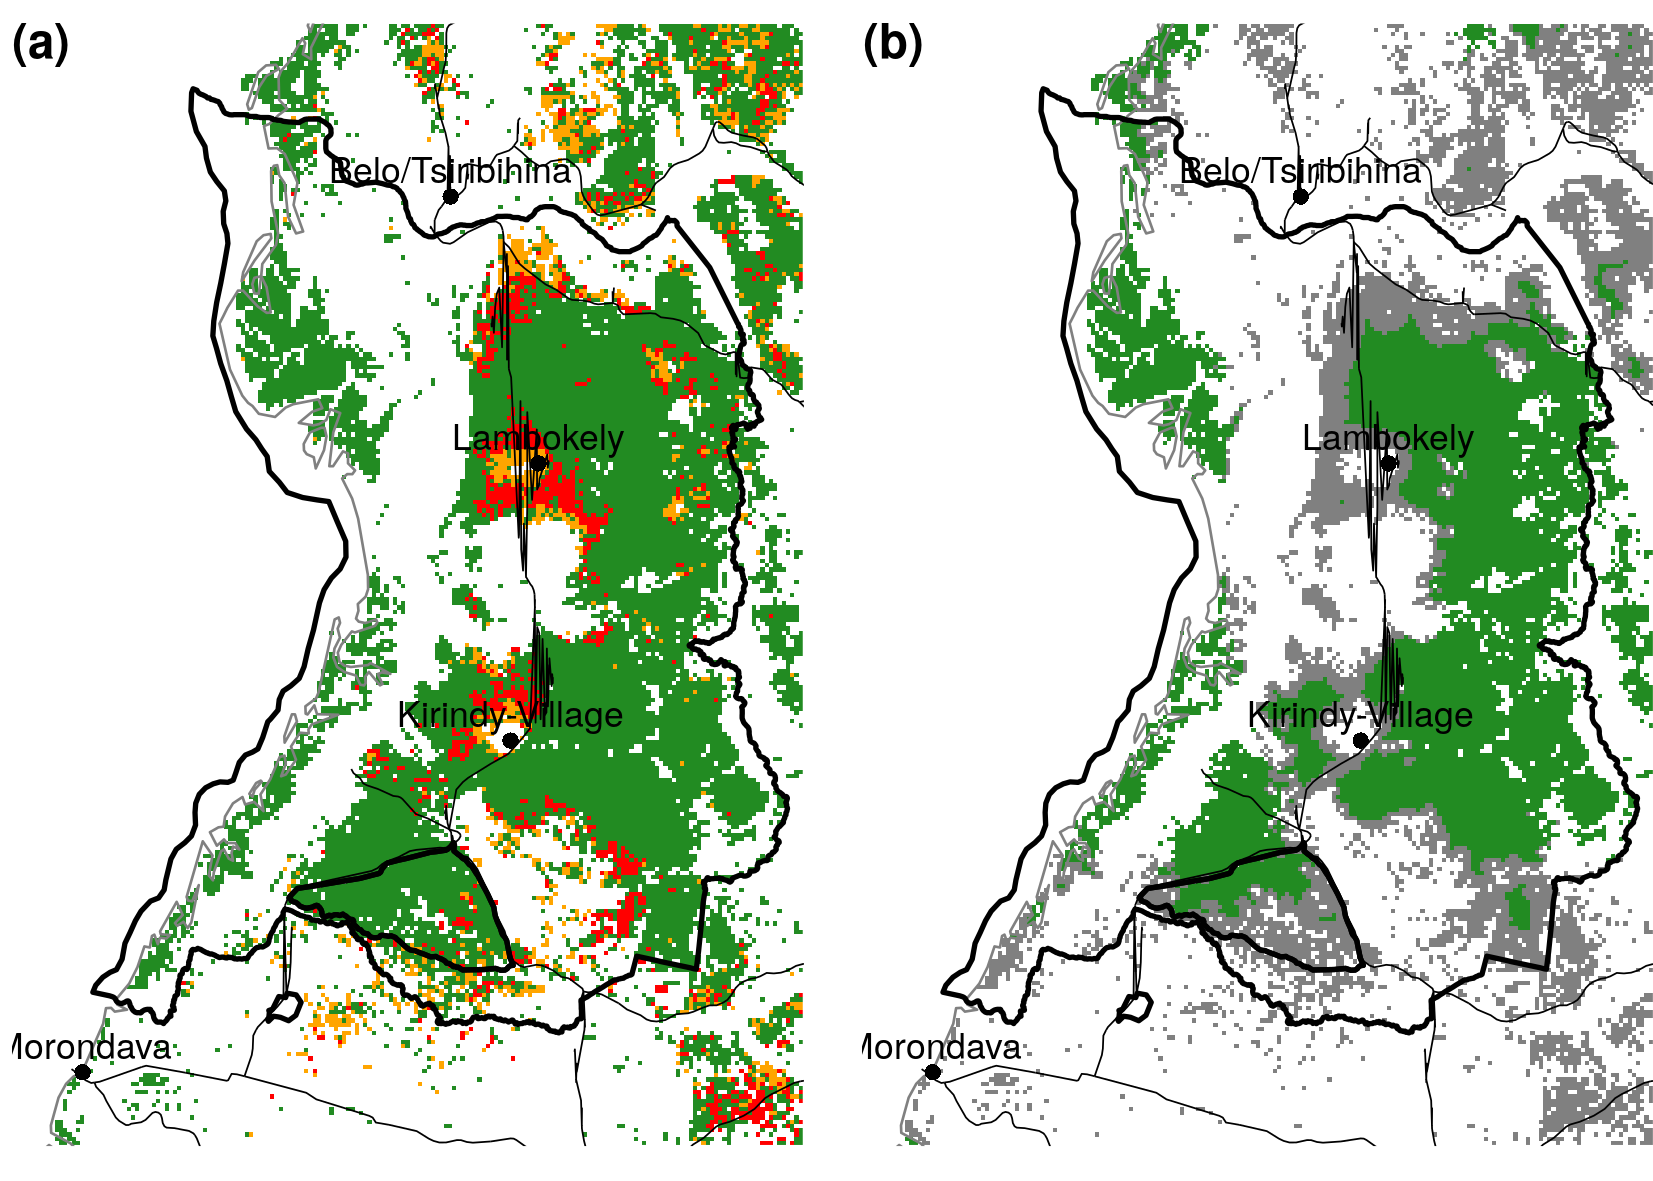
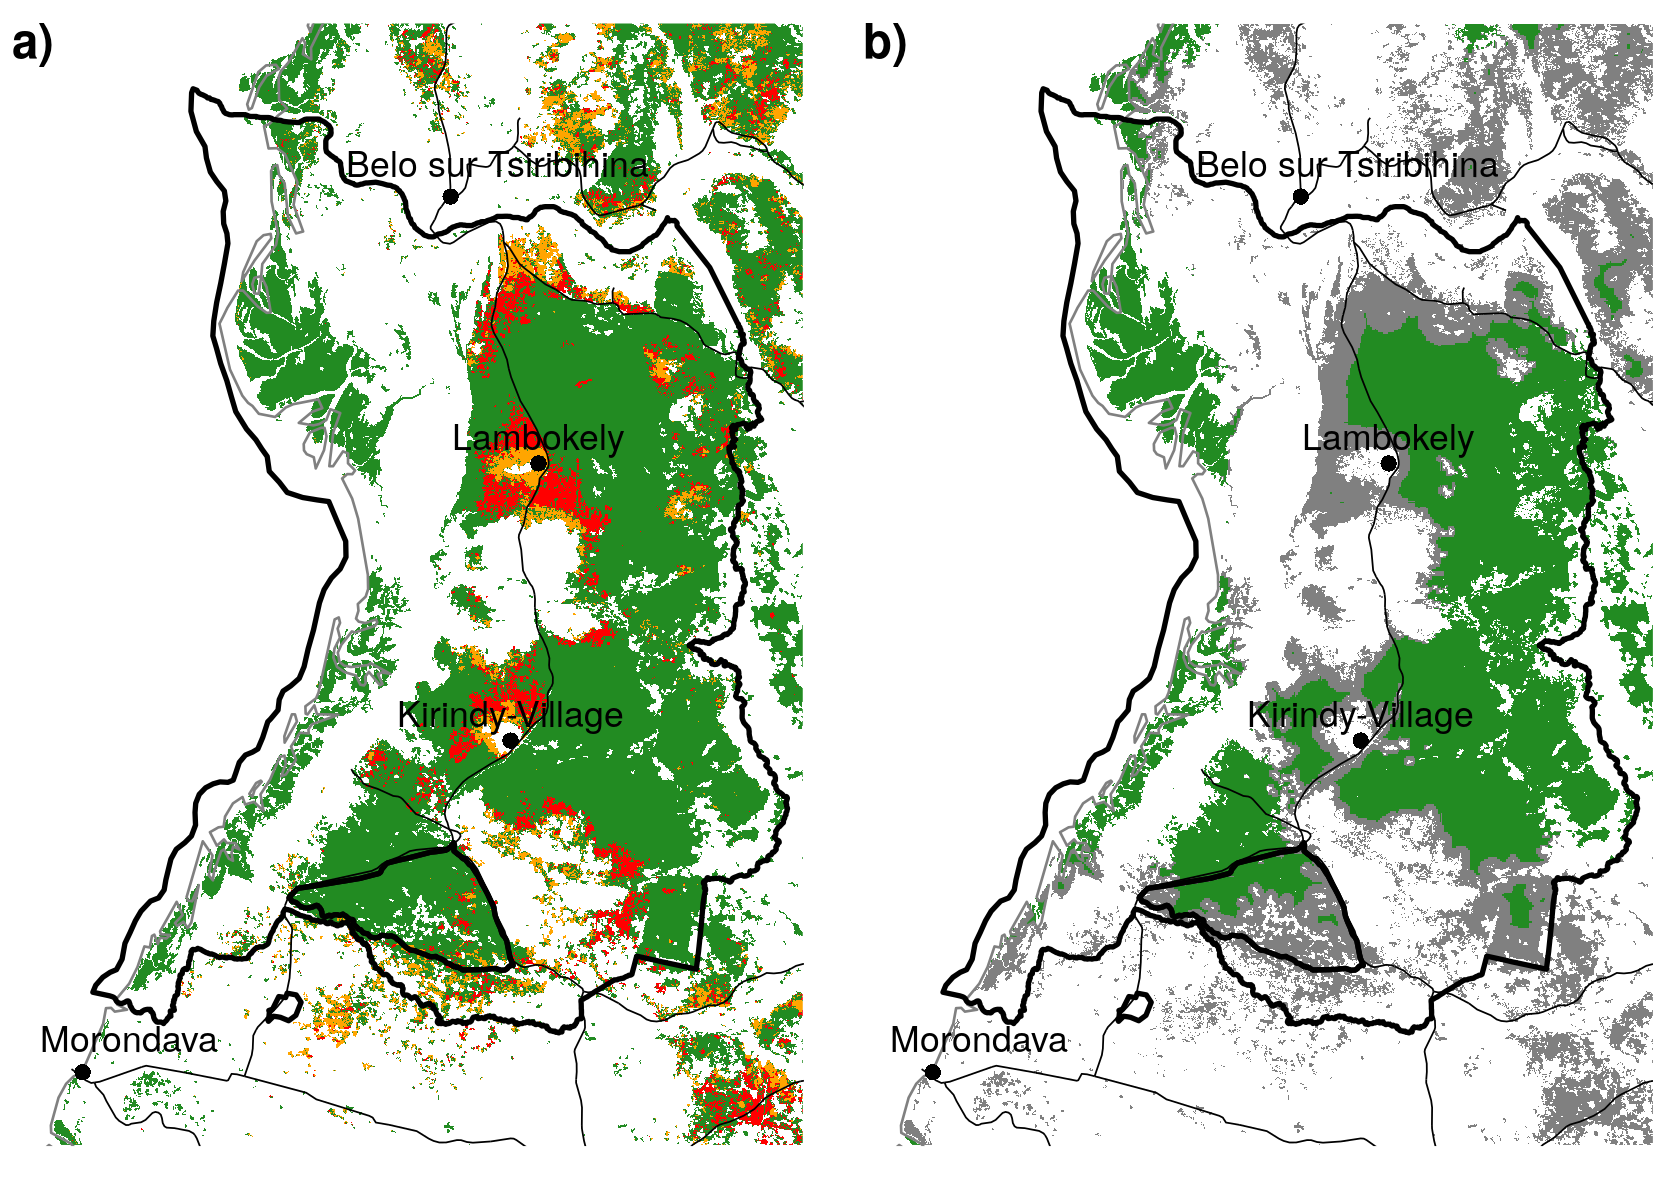
Map corrections

diff --git a/menabe.md b/menabe.md
@@ -116,7 +116,7 @@ Climate-change could indirectly be identified as a cause of deforestation in the
 
 ![ **Historical and forecasted deforestation in the Kirindy-Mitea National Park.** The boundaries of the Kirindy-Mitea National Park (KMNP) are represented with black polygones (source: Rebioma project at http://rebioma.net). Main roads are represented with thin black lines (source: FTM BD500). Coast line is represented with a thin grey line. Belo-sur-Mer is the main village located near KMNP. **a)** Historical deforestation on the period 2000-2010-2014. Green: forest cover in 2014, orange: 2000-2010 deforestation, red: 2010-2014 deforestation (source: BioSceneMada project at http://bioscenemada.net). The main causes of the deforestation are (A) slash-and-burn agriculture (_"hatsake"_), (B) cyclones followed by uncontrolled fires and (C) illegal logging. **b)** Projected deforestation on the period 2010-2050. Green: projected forest cover in 2050, grey: 2010-2050 deforestation. Most of the 2010-2014 deforestation observed in figure a) is included in the 2010-2050 projections. Around 50% of the 2010 forest is predicted to disappear on the period 2010-2050. Most of the remaining forest will be inside the protected area.](figs/KMNP.png)
 
-![ **Historical and forecasted deforestation in the Menabe-Antimena new protected area.** The boundaries of the Menabe-Antimena new protected area (MANAP) are represented with black polygones (source: Rebioma project at http://rebioma.net). Main roads are represented with thin black lines (source: FTM BD500). Coast line is represented with a thin grey line. Morondava and Belo-sur-Tsiribihina are the main cities located near MANAP. **a)** Historical deforestation on the period 2000-2010-2014. Green: forest cover in 2014, orange: 2000-2010 deforestation, red: 2010-2014 deforestation (source: BioSceneMada project at http://bioscenemada.net). The main cause of the deforestation is the slash-and-burn agriculture (_"hatsake"_) for corn and peanut crops. Most of the 2000-2014 deforestation occured around the villages of Kirindy and Lambokely. **b)** Projected deforestation on the period 2010-2050. Green: projected forest cover in 2050, grey: 2010-2050 deforestation. Much of the deforestation predicted on the period 2010-2050 have already occured on the period 2010-2014.](figs/Menabe-Antimena.png)
+![ **Historical and forecasted deforestation in the Menabe-Antimena new protected area.** The boundaries of the Menabe-Antimena new protected area (MANAP) are represented with black polygones (source: Rebioma project at http://rebioma.net). Main roads are represented with thin black lines (source: FTM BD500). Coast line is represented with a thin grey line. Morondava and Belo-sur-Tsiribihina are the main cities located near MANAP. **a)** Historical deforestation on the period 2000-2010-2014. Green: forest cover in 2014, orange: 2000-2010 deforestation, red: 2010-2014 deforestation (source: BioSceneMada project at http://bioscenemada.net). The main cause of the deforestation is the slash-and-burn agriculture (_"hatsake"_) for corn and peanut crops. Most of the 2000-2014 deforestation occured around the villages of Kirindy and Lambokely. **b)** Projected deforestation on the period 2010-2050. Green: projected forest cover in 2050, grey: 2010-2050 deforestation. Much of the deforestation predicted on the period 2010-2050 have already occured on the period 2010-2014.](figs/MANAP.png)
 
 ![**Slash-and-burn agriculture (_"hatsake"_) for peanut crop around Lambokely village, Menabe-Antimena New Protected Area.** Peanut (a) is cultivated as a cash crop. Peanut production is collected and bought by dealers (b). A part of the production is at the destination of the national market but most of it is exported outside Madagascar, mainly for the Chinese market. Peanut crop is obtained through slash-and-burn agriculture (also called _"hatsake"_) and leads to the deforestation of large areas of forest near the Lambokely village, inside the delimitation of the Menabe-Antimena New Protected Area (c).](figs/arachide.jpg)
 
